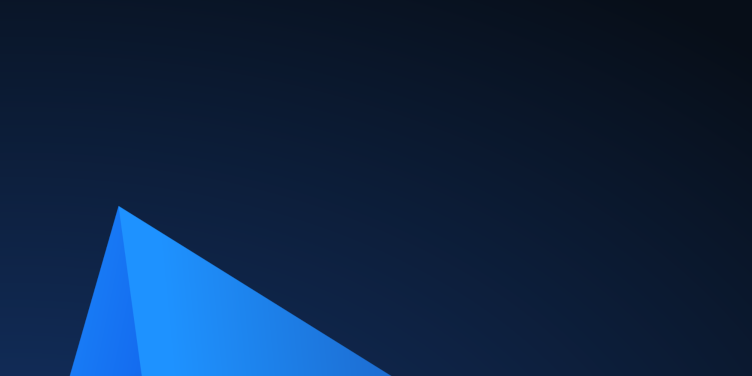
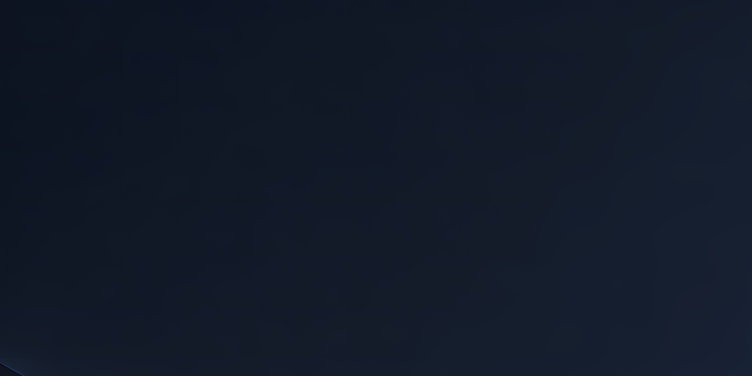
Update localization files and adjust image styles across multiple languages
- Reduced the width and adjusted the margin-top for the screenshot image in root.html files for various languages.
- Added a background image in support.html files for multiple languages to enhance visual appeal.
- Updated the main div class to "wide" in support.html files for better layout consistency across different languages.
- Modified the support.html files to include links to official documentation and community forums, ensuring users have access to necessary resources.

Changed region(s): [[0.0, 0.3511, 0.5811, 1.0]]

diff --git a/anduinos-installer-config/assets/slides/support.html b/anduinos-installer-config/assets/slides/support.html
@@ -1,7 +1,7 @@
 <div class="header">
     <h1 class="slidetitle">Help and Support</h1>
 </div>
-<div class="main">
+<div class="main wide">
     <div class="text">
         <div>
             <p><a href="https://docs.anduinos.com/">The official documentation for AnduinOS</a> covers a wide range of issues you might encounter. Additionally, the <a href="https://github.com/Anduin2017/AnduinOS/discussions">AnduinOS community forums</a> are filled with users and developers.</p>
@@ -10,3 +10,6 @@
         </div>
 </div>
 
+<img class="background" src="screenshots/welcome.png" />
+
+</div>

diff --git a/anduinos-installer-config/assets/slides/l10n/ar/support.html b/anduinos-installer-config/assets/slides/l10n/ar/support.html
@@ -1,12 +1,14 @@
 <div class="header">
     <h1 class="slidetitle">المساعدة والدعم</h1>
 </div>
-<div class="main">
+<div class="main wide">
     <div class="text">
         <div>
             <p><a href="https://docs.anduinos.com/">التوثيق الرسمي لـ AnduinOS</a> يغطي نطاقًا واسعًا من المشكلات التي قد تواجهها. بالإضافة إلى ذلك، فإن <a href="https://github.com/Anduin2017/AnduinOS/discussions">منتديات مجتمع AnduinOS</a> مليئة بالمستخدمين والمطورين.</p>
 
             <p>على <a href="https://askubuntu.com/">Ask Ubuntu</a>، يمكنك البحث عن مشكلات شائعة جدًا وطرح أسئلة عنها. حلول معظم مشكلات AnduinOS مطابقة لتلك الخاصة بـ Ubuntu. يمكنك الاعتماد بشكل كامل على توثيق Ubuntu وخبرته لحل مشكلات AnduinOS.</p>
         </div>
+</div>
+<img class="background" src="screenshots/welcome.png" />
 </div>
 

diff --git a/anduinos-installer-config/assets/slides/l10n/da/support.html b/anduinos-installer-config/assets/slides/l10n/da/support.html
@@ -1,12 +1,14 @@
 <div class="header">
     <h1 class="slidetitle">Hjælp og support</h1>
 </div>
-<div class="main">
+<div class="main wide">
     <div class="text">
         <div>
             <p><a href="https://docs.anduinos.com/">Den officielle dokumentation for AnduinOS</a> dækker et bredt spektrum af problemer, du kan støde på. Derudover er <a href="https://github.com/Anduin2017/AnduinOS/discussions">AnduinOS-community-foraene</a> fyldt med brugere og udviklere.</p>
 
             <p>På <a href="https://askubuntu.com/">Ask Ubuntu</a> kan du søge efter og stille spørgsmål om meget almindelige problemer. Løsningerne på næsten alle AnduinOS-problemer er identiske med dem for Ubuntu. Du kan stole fuldt ud på Ubuntus dokumentation og ekspertise for at løse problemer med AnduinOS.</p>
         </div>
+</div>
+<img class="background" src="screenshots/welcome.png" />
 </div>
 

diff --git a/anduinos-installer-config/assets/slides/l10n/de/support.html b/anduinos-installer-config/assets/slides/l10n/de/support.html
@@ -1,12 +1,14 @@
 <div class="header">
     <h1 class="slidetitle">Hilfe und Support</h1>
 </div>
-<div class="main">
+<div class="main wide">
     <div class="text">
         <div>
             <p><a href="https://docs.anduinos.com/">Die offizielle Dokumentation für AnduinOS</a> behandelt ein breites Spektrum von Problemen, auf die Sie möglicherweise stoßen. Darüber hinaus sind die <a href="https://github.com/Anduin2017/AnduinOS/discussions">AnduinOS-Community-Foren</a> voller Nutzer und Entwickler.</p>
 
             <p>Auf <a href="https://askubuntu.com/">Ask Ubuntu</a> können Sie nach sehr häufigen Problemen suchen und Fragen dazu stellen. Lösungen für fast alle AnduinOS-Probleme sind identisch mit denen für Ubuntu. Sie können sich vollständig auf die Dokumentation und das Fachwissen von Ubuntu verlassen, um Probleme mit AnduinOS zu lösen.</p>
         </div>
+</div>
+<img class="background" src="screenshots/welcome.png" />
 </div>
 

diff --git a/anduinos-installer-config/assets/slides/l10n/el/support.html b/anduinos-installer-config/assets/slides/l10n/el/support.html
@@ -1,12 +1,14 @@
 <div class="header">
     <h1 class="slidetitle">Βοήθεια και Υποστήριξη</h1>
 </div>
-<div class="main">
+<div class="main wide">
     <div class="text">
         <div>
             <p><a href="https://docs.anduinos.com/">Η επίσημη τεκμηρίωση του AnduinOS</a> καλύπτει ένα ευρύ φάσμα προβλημάτων που ενδέχεται να συναντήσετε. Επιπλέον, οι <a href="https://github.com/Anduin2017/AnduinOS/discussions">κοινότητες συζήτησης του AnduinOS</a> είναι γεμάτες από χρήστες και προγραμματιστές.</p>
 
             <p>Στο <a href="https://askubuntu.com/">Ask Ubuntu</a>, μπορείτε να αναζητήσετε και να κάνετε ερωτήσεις σχετικά με πολύ συνηθισμένα ζητήματα. Οι λύσεις για σχεδόν όλα τα προβλήματα του AnduinOS είναι πανομοιότυπες με αυτές για το Ubuntu. Μπορείτε να βασιστείτε πλήρως στην τεκμηρίωση και την εξειδίκευση του Ubuntu για την επίλυση προβλημάτων με το AnduinOS.</p>
         </div>
+</div>
+<img class="background" src="screenshots/welcome.png" />
 </div>
 

diff --git a/anduinos-installer-config/assets/slides/l10n/en_GB/support.html b/anduinos-installer-config/assets/slides/l10n/en_GB/support.html
@@ -1,12 +1,14 @@
 <div class="header">
     <h1 class="slidetitle">Help and Support</h1>
 </div>
-<div class="main">
+<div class="main wide">
     <div class="text">
         <div>
             <p><a href="https://docs.anduinos.com/">The official documentation for AnduinOS</a> covers a wide range of issues you might encounter. Additionally, the <a href="https://github.com/Anduin2017/AnduinOS/discussions">AnduinOS community forums</a> are filled with users and developers.</p>
 
             <p>On <a href="https://askubuntu.com/">Ask Ubuntu</a>, you can search for and ask about very common issues. Solutions for almost all AnduinOS issues are identical to those for Ubuntu. You can rely entirely on Ubuntu's documentation and expertise to resolve problems with AnduinOS.</p>
         </div>
+</div>
+<img class="background" src="screenshots/welcome.png" />
 </div>
 

diff --git a/anduinos-installer-config/assets/slides/l10n/es/support.html b/anduinos-installer-config/assets/slides/l10n/es/support.html
@@ -1,12 +1,14 @@
 <div class="header">
     <h1 class="slidetitle">Ayuda y Soporte</h1>
 </div>
-<div class="main">
+<div class="main wide">
     <div class="text">
         <div>
             <p><a href="https://docs.anduinos.com/">La documentación oficial de AnduinOS</a> cubre una amplia gama de problemas que podrías encontrar. Además, los <a href="https://github.com/Anduin2017/AnduinOS/discussions">foros de la comunidad de AnduinOS</a> están llenos de usuarios y desarrolladores.</p>
 
             <p>En <a href="https://askubuntu.com/">Ask Ubuntu</a>, puedes buscar y hacer preguntas sobre problemas muy comunes. Las soluciones para casi todos los problemas de AnduinOS son idénticas a las de Ubuntu. Puedes confiar completamente en la documentación y la experiencia de Ubuntu para resolver problemas con AnduinOS.</p>
         </div>
+</div>
+<img class="background" src="screenshots/welcome.png" />
 </div>
 

diff --git a/anduinos-installer-config/assets/slides/l10n/fi/support.html b/anduinos-installer-config/assets/slides/l10n/fi/support.html
@@ -1,12 +1,14 @@
 <div class="header">
     <h1 class="slidetitle">Ohjeet ja tuki</h1>
 </div>
-<div class="main">
+<div class="main wide">
     <div class="text">
         <div>
             <p><a href="https://docs.anduinos.com/">AnduinOS:n virallinen dokumentaatio</a> käsittelee laajasti eri asioita, joihin voit joutua törmäämään. Lisäksi <a href="https://github.com/Anduin2017/AnduinOS/discussions">AnduinOS-yhteisön keskustelupalstat</a> ovat täynnä käyttäjiä ja kehittäjiä.</p>
 
             <p>Sivustolla <a href="https://askubuntu.com/">Ask Ubuntu</a> voit etsiä ja kysyä erittäin yleisistä ongelmista. Lähes kaikkien AnduinOS-ongelmien ratkaisut ovat samat kuin Ubuntun. Voit luottaa täysin Ubuntun dokumentaatioon ja asiantuntijuuteen AnduinOS:n ongelmien ratkaisemisessa.</p>
         </div>
+</div>
+<img class="background" src="screenshots/welcome.png" />
 </div>
 

diff --git a/anduinos-installer-config/assets/slides/l10n/fr/support.html b/anduinos-installer-config/assets/slides/l10n/fr/support.html
@@ -1,12 +1,14 @@
 <div class="header">
     <h1 class="slidetitle">Aide et Assistance</h1>
 </div>
-<div class="main">
+<div class="main wide">
     <div class="text">
         <div>
             <p><a href="https://docs.anduinos.com/">La documentation officielle d'AnduinOS</a> couvre un large éventail de problèmes auxquels vous pourriez être confronté. De plus, les <a href="https://github.com/Anduin2017/AnduinOS/discussions">forums communautaires d'AnduinOS</a> regorgent d'utilisateurs et de développeurs.</p>
 
             <p>Sur <a href="https://askubuntu.com/">Ask Ubuntu</a>, vous pouvez rechercher et poser des questions concernant des problèmes très courants. Les solutions à presque tous les problèmes d'AnduinOS sont identiques à celles d'Ubuntu. Vous pouvez vous fier entièrement à la documentation et à l'expertise d'Ubuntu pour résoudre les problèmes liés à AnduinOS.</p>
         </div>
+</div>
+<img class="background" src="screenshots/welcome.png" />
 </div>
 

diff --git a/anduinos-installer-config/assets/slides/l10n/hi/support.html b/anduinos-installer-config/assets/slides/l10n/hi/support.html
@@ -1,12 +1,14 @@
 <div class="header">
     <h1 class="slidetitle">सहायता और समर्थन</h1>
 </div>
-<div class="main">
+<div class="main wide">
     <div class="text">
         <div>
             <p><a href="https://docs.anduinos.com/">AnduinOS के लिए आधिकारिक प्रलेखन</a> उन कई समस्याओं को कवर करता है जिसका आप सामना कर सकते हैं। इसके अलावा, <a href="https://github.com/Anduin2017/AnduinOS/discussions">AnduinOS समुदाय मंच</a> उपयोगकर्ताओं और डेवलपर्स से भरे हुए हैं।</p>
 
             <p><a href="https://askubuntu.com/">Ask Ubuntu</a> पर, आप बहुत ही आम समस्याओं के लिए खोज और पूछ सकते हैं। AnduinOS की लगभग सभी समस्याओं के समाधान Ubuntu के समाधानों के समान हैं। आप AnduinOS की समस्याओं को हल करने के लिए पूरी तरह से Ubuntu के प्रलेखन और विशेषज्ञता पर भरोसा कर सकते हैं।</p>
         </div>
+</div>
+<img class="background" src="screenshots/welcome.png" />
 </div>
 

diff --git a/anduinos-installer-config/assets/slides/l10n/id/support.html b/anduinos-installer-config/assets/slides/l10n/id/support.html
@@ -1,12 +1,14 @@
 <div class="header">
     <h1 class="slidetitle">Bantuan dan Dukungan</h1>
 </div>
-<div class="main">
+<div class="main wide">
     <div class="text">
         <div>
             <p><a href="https://docs.anduinos.com/">Dokumentasi resmi AnduinOS</a> mencakup berbagai masalah yang mungkin Anda temui. Selain itu, <a href="https://github.com/Anduin2017/AnduinOS/discussions">forum komunitas AnduinOS</a> penuh dengan pengguna dan pengembang.</p>
 
             <p>Di <a href="https://askubuntu.com/">Ask Ubuntu</a>, Anda dapat mencari dan bertanya tentang masalah yang sangat umum. Solusi untuk hampir semua masalah AnduinOS sama dengan solusi untuk Ubuntu. Anda dapat sepenuhnya mengandalkan dokumentasi dan keahlian Ubuntu untuk menyelesaikan masalah dengan AnduinOS.</p>
         </div>
+</div>
+<img class="background" src="screenshots/welcome.png" />
 </div>
 

diff --git a/anduinos-installer-config/assets/slides/l10n/it/support.html b/anduinos-installer-config/assets/slides/l10n/it/support.html
@@ -1,12 +1,14 @@
 <div class="header">
     <h1 class="slidetitle">Aiuto e supporto</h1>
 </div>
-<div class="main">
+<div class="main wide">
     <div class="text">
         <div>
             <p><a href="https://docs.anduinos.com/">La documentazione ufficiale per AnduinOS</a> copre un'ampia gamma di problemi che potresti incontrare. Inoltre, i <a href="https://github.com/Anduin2017/AnduinOS/discussions">forum della comunità AnduinOS</a> sono pieni di utenti e sviluppatori.</p>
 
             <p> Su <a href="https://askubuntu.com/">Ask Ubuntu</a> è possibile cercare e porre domande sui problemi più comuni. Le soluzioni per quasi tutti i problemi di AnduinOS sono identiche a quelle per Ubuntu. Puoi fare interamente affidamento sulla documentazione e sull'esperienza di Ubuntu per risolvere i problemi con AnduinOS.</p>
         </div>
+</div>
+<img class="background" src="screenshots/welcome.png" />
 </div>
 